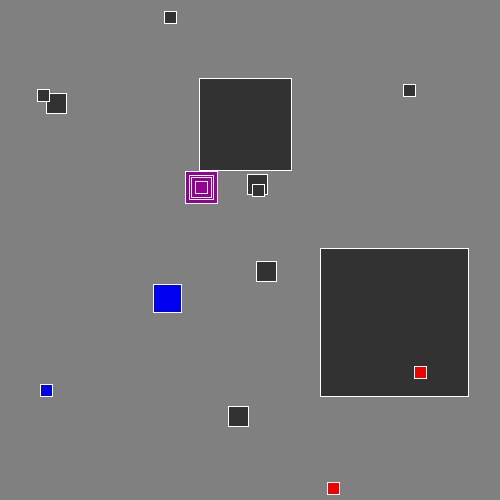
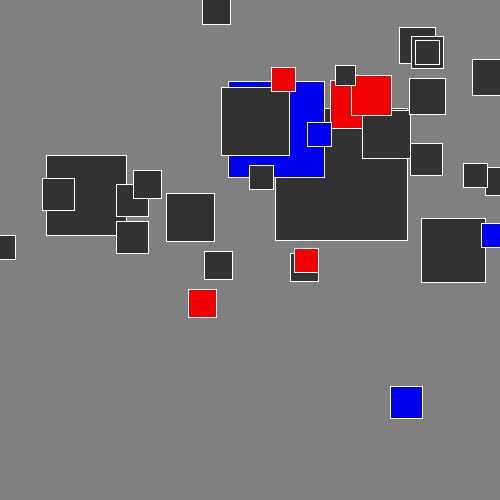
Update

diff --git a/myModule.py b/myModule.py
@@ -17,6 +17,8 @@ from PIL import Image, ImageDraw
 import requests
 import os
 
+import MeCab
+
 
 
 class Watch:
@@ -26,6 +28,7 @@ class Watch:
         self.channel_name = channel_name
         self.channel_id = channel_id
         self.watch_datetime = datetime.datetime.strptime(str(watch_datetime), '%b %d, %Y, %I:%M:%S %p JST')
+        self.tags = []
 
 
 class Watchs:
@@ -58,6 +61,25 @@ class Watchs:
         for watch in self.watch_list_all:
             if watch.watch_datetime <= start_datetime and watch.watch_datetime >= end_datetime:
                 self.watch_list_selected.append(watch)
+
+    def tag_each_watch(self):
+        for watch in self.watch_list_all:
+            mecab = MeCab.Tagger('-d /usr/local/lib/mecab/dic/mecab-ipadic-neologd').parse(watch.video_title)
+            lines = mecab.split('\n')
+
+            nounAndVerb = []
+            for line in lines:
+                feature = line.split('\t')
+                if len(feature) == 2:#'EOS'と''を省く
+                    info = feature[1].split(',')
+                    hinshi = info[0]
+                    if hinshi in ('名詞', '動詞'):
+                        nounAndVerb.append(info[6])
+
+            watch.tags = nounAndVerb
+            while '*' in watch.tags:
+                watch.tags.remove('*')
+
 
 '''
 -------------------------------------------------------------------------------
@@ -201,11 +223,26 @@ class Tset:
             if i == self.interval_num -1: #最後だったら。境界条件的にこれいる。
                 t_element = Telement(tmp, tmp - self.interval_time*1.1, i) #なんとなく1.1
                 self.elements_list.append(t_element)
-"""
+
     def construct_t_element_word_count_dict_2nd(self, watchs, WORDS_NUM_IN_A_CLOUD):
+        # t_elemnt.word_dictを作る。一つの期間で、出現回数まとめる。
         for t_element in self.elements_list:
-            for watch in watch.watch_list
-"""
+            for watch in watchs.watch_list_all:
+                if watch.watch_datetime  <= t_element.start_datetime and watch.watch_datetime >= t_element.end_datetime:
+                    for tag in watch.tags:
+                        if tag not in t_element.word_count_dict: 
+                            t_element.word_count_dict[tag] = 1
+                        else:
+                            t_element.word_count_dict[tag] += 1
+                
+            tmp_taple_list = sorted(t_element.word_count_dict.items(), key=lambda x:x[1], reverse=True) #多い順に並び替え。返り値がタプルのリストになっているため、辞書に置き換える必要がある。
+            tmp_taple_list = tmp_taple_list[0:WORDS_NUM_IN_A_CLOUD] #出現回数が閾値以降のものを残す.
+            #タプルを辞書に直して格納
+            t_element.word_count_dict.clear()
+            for item in tmp_taple_list:
+                t_element.word_count_dict[item[0]] = item[1]
+            #print(t_element.word_count_dict)
+
     def construct_t_element_word_count_dict(self, watchs, WORDS_NUM_IN_A_CLOUD):
         # t_elemnt.word_dictを作る。一つの期間で、出現回数まとめる。
         for t_element in self.elements_list:

diff --git a/main.py b/main.py
@@ -4,12 +4,14 @@ from myModule import *
 #!!!!!!!!!!!  ここでインターバル数を決める。最低でも3以上にすること　！！     ！！！！！！!!!!!!!!!!!!!!!!!!!!!!!!!
 TSET_INTERVAL_NUM = 15
 # 出現回数が閾値以降のものを残す時に、何個wordを残す(抽出する)かを決める値。 !!!!!!!!!!!!!!!!!!!!!!!!!
-WORDS_NUM_IN_A_CLOUD = 20
+WORDS_NUM_IN_A_CLOUD = 60
 # ワードクラウドとして描画する t_elementのINDEX
 DRAW_INDEX = 5 
 
-# watchsを設定
+# watchs
 watchs = Watchs('output.csv')
+
+# watch_listを作成
 watchs.construct_watch_list_all()
 
 # t_setを作成・初期化
@@ -18,10 +20,11 @@ t_set.set_interval_num(TSET_INTERVAL_NUM)
 # t_setを、t_elementに、start_datetime, end_datetime, index(0オリジン)を登録して生成。
 t_set.construct_element_list()
 
-
+# ワードリストを作る。
+watchs.tag_each_watch()
 
 # t_setの各t_elementに対するword_count_dictを作成
-t_set.construct_t_element_word_count_dict(watchs, WORDS_NUM_IN_A_CLOUD)
+t_set.construct_t_element_word_count_dict_2nd(watchs, WORDS_NUM_IN_A_CLOUD)
 
 # w_set作る。初期情報登録
 w_set = Wset()
@@ -36,7 +39,7 @@ t_set.set_t_element_extracted_w_info_dic(watchs, w_set)
 
 # サムネクラウドの表示
 t_set.draw_crowd(DRAW_INDEX)
-# Significance curveの表示
+# significance curveの表示
 t_set.draw_significance_curve(TSET_INTERVAL_NUM)
 
 
